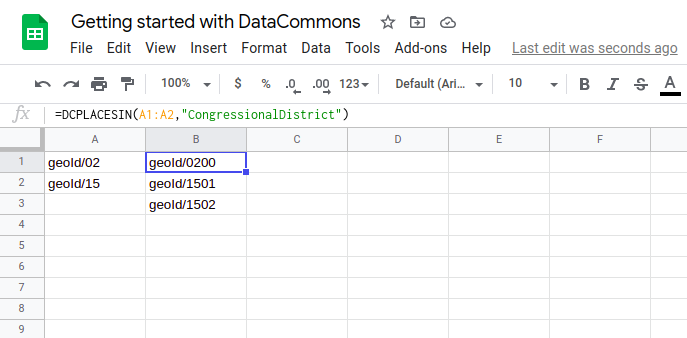
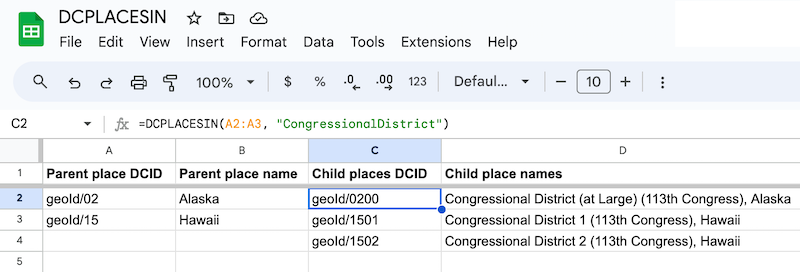
Updates to Sheets places_in.md file (#367)
* Updates to Sheets places_in.md file

* Updated with Carolyn's edits

* Updates based on Carolyn's feedback

* Conformed file to get_name.md
* Added Returns section
* Added Error Returns section
* Replaced images with narrower versions
* Added steps to examples
* Updated Gemfiles

* Updates from Carolyn

* Text and example image updates

* Gemfile from HEAD

* update formatting of examples

---------

diff --git a/api/sheets/places_in.md b/api/sheets/places_in.md
@@ -1,58 +1,75 @@
 ---
 layout: default
-title: Places within a Place
+title: Places Contained Within Another Place
 nav_order: 2
 parent: Google Sheets
 grand_parent: API
 ---
 
-# Retrieve places contained within another place
+# Retrieving Places Contained Within Another Place
 
-Given a list of parent [`Place`](https://datacommons.org/browser/Place) [DCIDs](/glossary.html),
-(e.g. any [`State`](https://datacommons.org/browser/State), [`Country`](https://datacommons.org/browser/Country), etc.), return a list of child places
-contained within the specified DCIDs. Only returns children whose place type matches
-the request's `placeType` parameter.
+The `=DCPLACESIN(dcids, placeType)` formula returns lists of child places from a list of parent [Place](https://datacommons.org/browser/Place) [DCIDs](https://docs.datacommons.org/glossary.html#dcid). It only returns children with a place type that matches the `placeType` parameter, such as [State](https://datacommons.org/browser/State), [Country](https://datacommons.org/browser/Country), and so on.
 
-## General information about this endpoint
+> **Note**
+>
+> Be sure to follow the instructions for [Installing and Enabling the Sheets Add-On](/api/sheets/) before using this formula.
 
-**Formula**: `=DCPLACESIN(dcids, placeType)`
+## Formula
 
-**Required arguments**:
+```
+=DCPLACESIN(dcids, placeType)
+```
 
-*   `dcids`: A list of (parent) `Place` nodes, identified by their DCIDs.
+## Required Arguments
 
-*   `placeType`: The type of the contained (child) `Place` nodes to filter by. For example, `City` and `County` are contained within `State`. For a
-    full list of available types, see [the Data Commons graph browser entry for `Place`](https://datacommons.org/browser/Place).
+* `dcids`: A list of parent `Place` nodes, identified by their DCIDs.
+* `placeType`: The type of the contained child `Place` nodes to filter by. For example,`City` and `County`are contained within `State`. For a full list of available types, see [the Data Commons graph browser entry for Place](https://datacommons.org/browser/Place).
 
+## Returns
 
-## Assembling the information you will need to use this formula
+Lists of child places from a list of parent [Place](https://datacommons.org/browser/Place) [DCIDs](https://docs.datacommons.org/glossary.html#dcid). Returns a list of child places of the specified place DCIDs, of the specified place type.
 
-This endpoint requires the argument `dcids`. [DCIDs](/glossary.html) are unique node identifiers defined by Data Commons. Your query will need to specify the DCIDs for the parent places of interest.
-
-This endpoint also requires the argument `placeType`, specifying the type of the child places you desire in the response.
+> **Note**:
+> It’s best to minimize the number of function calls to `=DCPLACESIN(dcids, placeType)` by using a single call to get the names for a column of nodes. This is because a spreadsheet will make one call to a Google server [*per custom function call*](https://developers.google.com/apps-script/guides/sheets/functions#optimization). If your sheet contains many separate calls to `=DCPLACESIN(dcids, placeType)` you can expect it to be slow and return with errors.
 
 ## Examples
 
-Before trying this method out, make sure to follow the setup directions in [the main section for Sheets docs](/api/sheets/index.html).
+This section contains examples of using the `=DCPLACESIN(dcids, placeType)` formula.
 
-### Example 1: Retrieve a list of the counties in Delaware.
+### Example 1: Retrieve a List of Counties in Delaware
 
-![](/assets/images/sheets/sheets_places_in_counties_in_delaware.png)
+To retrieve a list of counties in Delaware, perform the following steps:
 
-### Example 2: Retrieve a list of congressional districts in Alaska and Hawaii.
+1. Place your cursor in the cell where you want to add the DCID for Delaware. In this case, cell A2.
+2. Enter the Delaware DCID of <code><b>geoId/10</b></code>.
+3. (Optional) In cell B2, enter <code><b>DCGETNAME(A2)</b></code> to retrieve Delaware's name from the DCID in cell A2.
+4. Move to the cell C3 and enter the formula <code><b>=DCPLACESIN(A2, "County")</b></code> to retrieve the county names. The DCIDs for the three Delaware counties populate column C.
+5. Retrieve the Delaware county names by entering the formula <code><b>=DCGETNAME(C2:C4)</b></code> into cell D2.
 
-![](/assets/images/sheets/sheets_places_in_congressional_districts_ak_hi.png)
+![Retrieving a List of Counties in Delaware](/assets/images/sheets/sheets_places_in_counties_in_delaware.png)
+
+### Example 2: Retrieve Congressional Districts in Alaska and Hawaii
+
+To retrieve the congressional districts in Alaska and Hawaii, perform the following steps:
+
+1. In cell A2, enter <code><b>geoId/02</b></code> for the DCID of Alaska and in Cell A3, enter <code><b>geoId/15</b></code> for the DCID of Hawaii.
+2. (Optional) Enter <code><b>=DCGETNAME(A2:A3)</b></code> in cell B1 to retrieve the names of Alaska and Hawaii into column B.
+3. Retrieve the DCIDs for the congressional districts by enter <code><b>=DCPLACESIN(A2:A3, "CongressionalDistrict")</b></code> into cell C2.
+4. Finally, retrieve the names of the congressional districts by entering <code><b>=DCGETNAMES(C2:C4)</b></code> into cell D2.
+
+![Retrieving Congressional Districts in Alaska and Hawaii](/assets/images/sheets/sheets_places_in_congressional_districts_ak_hi.png)
 
 ## Error Responses
 
-If you pass a bad DCID value, you will see a reference error appear:
+If a DCID does not exist, the `=DCPLACESIN(dcids, placeType)` formula returns a value of #REF!. For example, the `=DCPLACESIN(A1, "CongressionalDistrict")` formula should return the congressional districts for the DCID in cell A1. However, because the “geoId/123123123” DCID does not exist, an error of #REF! is returned to cell B1 in the following sheet:
 
-![](/assets/images/sheets/sheets_places_in_bad_dcid.png)
+![alt_text](/assets/images/sheets/sheets_places_in_wrong_dcid.png)
 
-Likewise, if you pass a nonexistent place type, you will also see a reference error appear:
+If you provide an empty cell for a DCID, the `=DCPLACESIN(dcids, placeType)` formula returns a value of #ERROR!, as shown show in the following image:
 
-![](/assets/images/sheets/sheets_places_in_bad_place_type.png)
+![alt_text](/assets/images/sheets/sheets_places_in_no_input.png)
 
-If you pass an empty DCID, an error will appear:
+Finally, if you provide an invalid property to the `=DCPLACESIN(dcids, placeType)` formula, an error of #REF! is also returned, as follows:
 
-![](/assets/images/sheets/sheets_places_in_empty_cell.png)
+![alt_text](/assets/images/sheets/sheets_places_in_bad_property.png)
+
